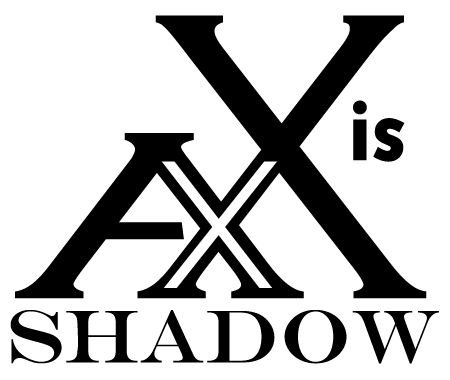
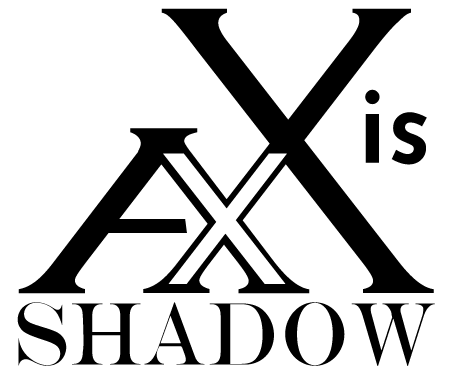
up12.0

diff --git a/media/css/all.css b/media/css/all.css
@@ -300,7 +300,7 @@ hr.style1{
 }
 #header-top h1 {
 	width: 40%;
-	max-width: 235px;
+	max-width: 200px;
 	text-align: left;
 	font-size: 1em;
 	margin: 5% 0;
